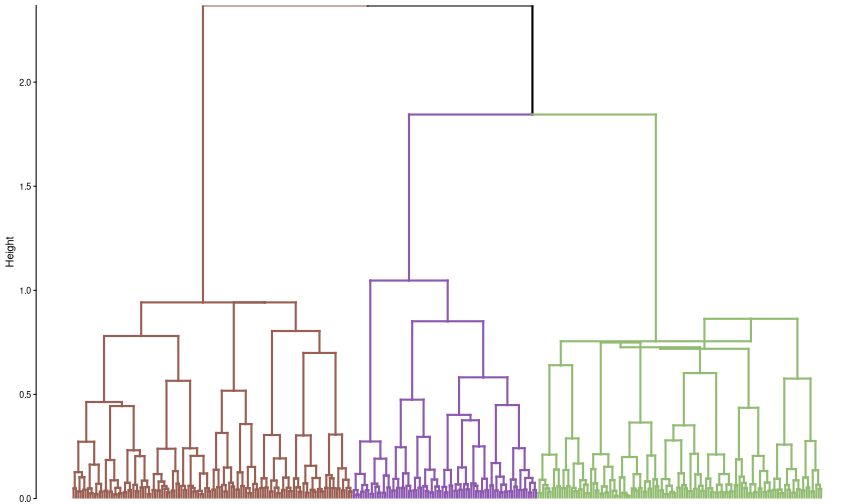
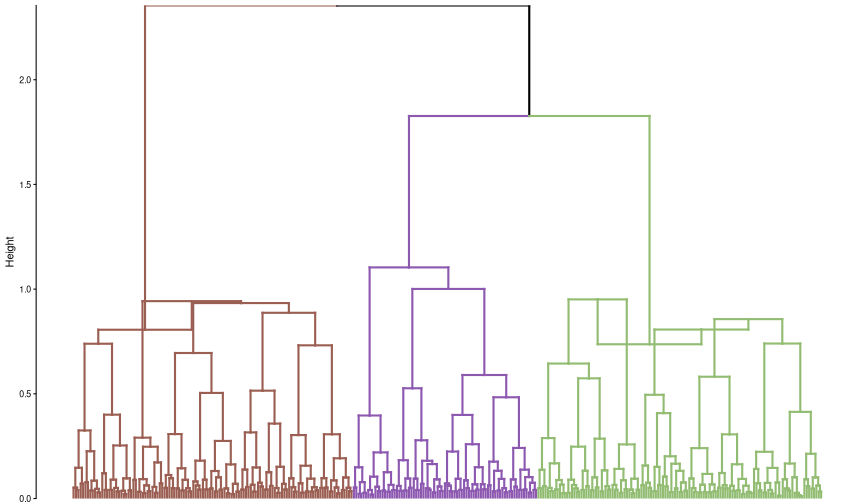
Update long-term clustering of zooplankton to the new data

Changed region(s): [[0.0625, 0.0, 0.9688, 0.9821], [0.1562, 0.0, 0.25, 0.0298], [0.0, 0.1488, 0.0625, 0.1786]]

diff --git a/Output/Notebooks/zooplankton_longterm_clustering.md b/Output/Notebooks/zooplankton_longterm_clustering.md
@@ -1,6 +1,6 @@
 # Apply time-constrained clustering to the deseasonalized zooplankton timeseries
 Lucien Bastin
-2026-10-30
+2026-11-04
 
 - [Libraries and data](#libraries-and-data)
   - [Libraries](#libraries)
